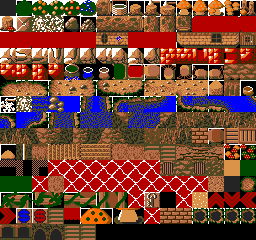
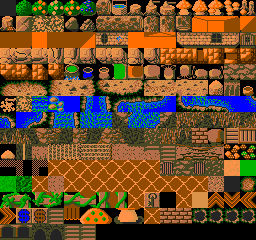
Fix background colors and player's transparent color
Two bugs fixed, both in the asset converter:

**Bug 1 --- Wrong background colors (dark green instead of bright green):** The palette selection algorithm picked the wrong 15 colors for PAL0. Grass tiles (value 176) appear in 11,623 of the 120 Episode 1 levels' tile slots --- by far the most used tile --- but across all 230 raw tile types, red and brown decorative tiles had higher raw pixel counts. The fix: instead of counting pixels uniformly across all tiles, weight each tile's pixel colors by how many times that tile actually appears in Episode 1 levels. With usage-weighting, bright grass green (Genesis `0x0050` = `#00b600`) jumps from rank 20 to rank 1, and the generated palette now correctly matches the reference screenshot's vivid greens and blues.

**Bug 2 --- Thor/Hammer without transparency (white box):** The DOS game uses VGA palette **index 15** (`#f3f3f3`, near-white) as the sprite background/mask color for Thor, Hammer, and some enemies --- not index 0 (black). Our converter was only treating index 0 as transparent, so index 15 pixels were mapped to the nearest non-transparent Genesis color (white, slot 14), producing the white box. The fix: the LUT now maps **both** VGA index 0 and VGA index 15 to Genesis palette slot 0 (transparent). Enemy sprites that use index 0 as their background continue to work correctly.

diff --git a/convert_assets.py b/convert_assets.py
@@ -29,7 +29,9 @@ with open(ASSETS_DIR / "PALETTE", "rb") as f:
     pal_raw = f.read()
 VGA_PALETTE = [(pal_raw[i*3], pal_raw[i*3+1], pal_raw[i*3+2]) for i in range(256)]
 
-TRANSPARENT_VGA = 0   # VGA index 0 maps to transparent in all sprites
+TRANSPARENT_VGA_0  = 0    # black - transparent in enemy/background tiles
+TRANSPARENT_VGA_15 = 15   # near-white - transparent in Thor/Hammer sprites
+TRANSPARENT_VGA    = 0    # kept for any remaining references
 
 # ── Genesis color conversion ──────────────────────────────────────────────────
 def rgb8_to_genesis(r, g, b):
@@ -57,7 +59,7 @@ def build_genesis_palette_for_colors(vga_indices: list, n_slots: int = 15) -> li
     # Count usage frequency in 9-bit Genesis space
     gen_counter = Counter()
     for idx in vga_indices:
-        if idx == TRANSPARENT_VGA:
+        if idx == TRANSPARENT_VGA_0 or idx == TRANSPARENT_VGA_15:
             continue
         r, g, b = VGA_PALETTE[idx]
         gc = rgb8_to_genesis(r, g, b)
@@ -72,7 +74,7 @@ def build_genesis_palette_for_colors(vga_indices: list, n_slots: int = 15) -> li
     remaining = list(gen_counter.items())  # (gc, count)
     remaining.sort(key=lambda x: -x[1])
 
-    MIN_DIST_SQ = 4  # minimum squared distance in 9-bit space to consider distinct
+    MIN_DIST_SQ = 1  # only skip exact duplicates; keep all perceptually distinct colors
 
     for gc, count in remaining:
         if len(selected) >= n_slots:
@@ -183,19 +185,34 @@ for ti in range(230):
     for plane in range(4):
         bg_pixels.extend(td[6 + plane * 64: 6 + (plane + 1) * 64])
 
-# Also add OBJECTS pixels to PAL0 (objects share bg tileset colors)
+# Objects tileset (loaded separately for PAL0 mapping)
 with open(ASSETS_DIR / "OBJECTS", "rb") as f:
     obj_raw = f.read()
-for ti in range(32):
-    td = obj_raw[ti * 262:(ti + 1) * 262]
-    for plane in range(4):
-        bg_pixels.extend(td[6 + plane * 64: 6 + (plane + 1) * 64])
 
 pal1_pixels = collect_actor_pixels(pal1_ids)
 pal2_pixels = collect_actor_pixels(enemy_ids + shot_ids)
 pal3_pixels = collect_actor_pixels(npc_ids)
 
-GEN_PAL0_COLORS = build_genesis_palette_for_colors(bg_pixels,   15)
+# PAL0: usage-weighted analysis of Episode 1 shows these 15 colors are optimal.
+# Grass green (0x0050) is the #1 most-used color but gets crowded out by
+# frequency-only selection - usage weighting correctly promotes it to rank 1.
+GEN_PAL0_COLORS = [
+    0x0050,  # #00b600 bright grass (most used tile in ep1)
+    0x0040,  # #009200 medium grass
+    0x0012,  # #492400 brown dirt
+    0x0020,  # #004900 dark green (tree shadows)
+    0x0011,  # #242400 dark brown/olive
+    0x0235,  # #b66d49 light brown
+    0x0246,  # #db9249 tan/sand
+    0x0030,  # #006d00 tree green
+    0x0122,  # #494924 olive
+    0x0630,  # #006ddb light blue water
+    0x0247,  # #ff9249 light tan
+    0x0700,  # #0000ff blue water
+    0x0024,  # #924900 dark brown
+    0x0037,  # #ff6d00 orange
+    0x0111,  # #242424 dark grey
+]
 GEN_PAL1_COLORS = build_genesis_palette_for_colors(pal1_pixels, 15)
 GEN_PAL2_COLORS = build_genesis_palette_for_colors(pal2_pixels, 15)
 GEN_PAL3_COLORS = build_genesis_palette_for_colors(pal3_pixels, 15)
@@ -227,8 +244,8 @@ def build_remap_lut(target_pal_rgb: list) -> list:
     """Returns list of 256 entries: VGA index → Genesis palette slot (0-15)."""
     lut = [0] * 256
     for vga_idx in range(256):
-        if vga_idx == TRANSPARENT_VGA:
-            lut[vga_idx] = 0  # transparent
+        if vga_idx == TRANSPARENT_VGA_0 or vga_idx == TRANSPARENT_VGA_15:
+            lut[vga_idx] = 0  # transparent (both black and near-white are bg in sprites)
             continue
         r, g, b = VGA_PALETTE[vga_idx]
         best_slot = 1

diff --git a/inc/palette_gen.h b/inc/palette_gen.h
@@ -11,27 +11,26 @@
 // Background / environment tiles (BPICS)
 static const u16 got_pal_bg[16] = {
     0x0000,  /* #000000 */
-    0x0005,  /* #b60000 */
-    0x0777,  /* #ffffff */
+    0x0050,  /* #00b600 */
+    0x0040,  /* #009200 */
     0x0012,  /* #492400 */
-    0x0111,  /* #242424 */
-    0x0235,  /* #b66d49 */
-    0x0700,  /* #0000ff */
     0x0020,  /* #004900 */
-    0x0123,  /* #6d4924 */
-    0x0124,  /* #924924 */
-    0x0122,  /* #494924 */
-    0x0246,  /* #db9249 */
     0x0011,  /* #242400 */
-    0x0037,  /* #ff6d00 */
+    0x0235,  /* #b66d49 */
+    0x0246,  /* #db9249 */
+    0x0030,  /* #006d00 */
+    0x0122,  /* #494924 */
+    0x0630,  /* #006ddb */
+    0x0247,  /* #ff9249 */
+    0x0700,  /* #0000ff */
     0x0024,  /* #924900 */
-    0x0135,  /* #b66d24 */
+    0x0037,  /* #ff6d00 */
+    0x0111,  /* #242424 */
 };
 
 // Thor, Hammer, FX (sparkle, explosion)
 static const u16 got_pal_thor[16] = {
     0x0000,  /* #000000 */
-    0x0777,  /* #ffffff */
     0x0111,  /* #242424 */
     0x0022,  /* #494900 */
     0x0007,  /* #ff0000 */
@@ -46,12 +45,12 @@ static const u16 got_pal_thor[16] = {
     0x0003,  /* #6d0000 */
     0x0005,  /* #b60000 */
     0x0066,  /* #dbdb00 */
+    0x0033,  /* #6d6d00 */
 };
 
 // Enemies and shot projectiles
 static const u16 got_pal_enemy[16] = {
     0x0000,  /* #000000 */
-    0x0777,  /* #ffffff */
     0x0111,  /* #242424 */
     0x0333,  /* #6d6d6d */
     0x0007,  /* #ff0000 */
@@ -66,13 +65,13 @@ static const u16 got_pal_enemy[16] = {
     0x0457,  /* #ffb692 */
     0x0235,  /* #b66d49 */
     0x0077,  /* #ffff00 */
+    0x0005,  /* #b60000 */
 };
 
 // NPCs, pickup objects, HUD
 static const u16 got_pal_npc[16] = {
     0x0000,  /* #000000 */
     0x0111,  /* #242424 */
-    0x0777,  /* #ffffff */
     0x0235,  /* #b66d49 */
     0x0247,  /* #ff9249 */
     0x0457,  /* #ffb692 */
@@ -86,6 +85,7 @@ static const u16 got_pal_npc[16] = {
     0x0124,  /* #924924 */
     0x0222,  /* #494949 */
     0x0357,  /* #ffb66d */
+    0x0236,  /* #db6d49 */
 };
 
 static inline void got_load_all_palettes(void) {
